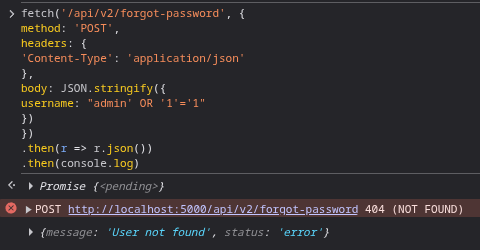
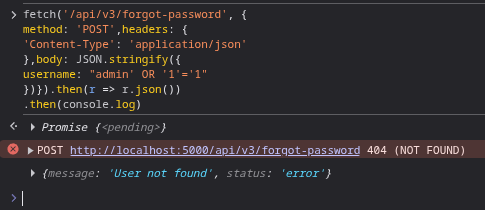
api_v3_forgot_password() documented

diff --git a/DOCS/SQLi.md b/DOCS/SQLi.md
@@ -214,14 +214,29 @@ Return to root URL (Vulnerable Bank homepage) and click Toggle Mitigation button
     ![alt text](./screenshots/forgot_v2_hardened.png)
 
 ###  api_v3_forgot_password()
-
+Username is vulnerable to SQL injection.
 #### Exploit
-
-##### via URL
-
+This may be exploited with the CLI.
 ##### via CLI
+1. Open the browser console/terminal.
+2. Issue the following fetch request as a command
+to test the SQL injection: `fetch('/api/v3/forgot-password', {
+method: 'POST',headers: {
+'Content-Type': 'application/json'
+},body: JSON.stringify({
+username: "admin' OR '1'='1"
+})}).then(r => r.json())
+.then(console.log)`
 
+3. See result:
+
+    ![alt text](./screenshots/forgot_v3_vuln.png)
 #### Mitigate
+Return to root URL (Vulnerable Bank homepage) and click Toggle Mitigation button. Repeat attack as above and observe outcome:
+
+4. CLI:
+
+    ![alt text](./screenshots/forgot_v3_hardened.png)
 
 ###  api_transactions()
 
